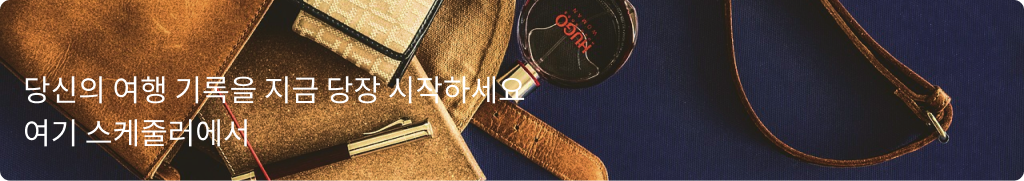
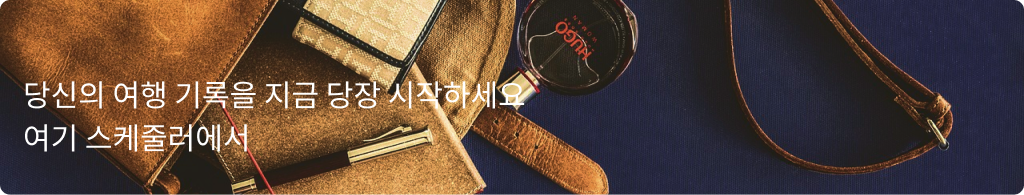
list.jsp 주소 1줄 줄임 해결, 글자들 margin 조정, pagenation margin top 조정

diff --git a/OnTheTrain/src/main/webapp/resources/css/accommodation/accommodationList.css b/OnTheTrain/src/main/webapp/resources/css/accommodation/accommodationList.css
@@ -14,7 +14,6 @@
 }
 
 #banner_space{
-    height: 180.59px;
     margin-top: 5%;
     left: 88px;;
     right: 88px;;
@@ -32,11 +31,12 @@
 }
 
 #pCount{
-	margin-top: 2%;
+	margin-top: 1%;
 	margin-bottom: 2%;
+	font-weight: 400px;
 }
 
-#searchAreab{
+/* #searchAreab{
     float:left;
     width: 600px;
     height: 55px;
@@ -84,22 +84,6 @@ button{
     margin-right: 30px;
     color: #00008B;
 }
-/* 
-#search1{
-    margin-left: 15.4px;
-}
-
-#search2{
-    
-}
-
-#search3{
-    
-}
-
-#search4{
-    
-} */
 
 #filter_box{
     float:left;
@@ -114,19 +98,18 @@ button{
 }
 
 #filter_box_text{
-    /* position: absolute; */
+    position: absolute;
     font-size: 14px;
     float: right; 
     margin-top: 4px;
     margin-right: 4px;
-}
+} */
 
 .gray_line{
     /* position: absolute; */
     border: 1px solid #DDDDDD;
-    margin-top: 150.41px;
-    margin-top: 18%;
-    margin-bottom: 2%;
+    margin-top: 5%;
+    margin-bottom: 1%;
 }
 
 .text_type2{
@@ -135,10 +118,10 @@ button{
     margin-top: 13px;
 }
 
-#accomodaion_count_text{
+/* #accomodaion_count_text{
     margin-top: 3px;
 }
-
+ */
 #list_img{
     float:left;
     width: 502px;
@@ -177,12 +160,13 @@ button{
     float: left;
     width: 148px;
     margin-left:0px;
-    font-weight: 700;
+    font-weight: 400;
     white-space: normal;
     display: -webkit-box;
     -webkit-line-clamp: 1;
     -webkit-box-orient: vertical;
     overflow: hidden;
+    margin-top: 10%;
 
 }
 
@@ -200,18 +184,21 @@ button{
     text-align: left;
 }
 
-.acccontent{
-    clear: both;
-    color: #717171;
-    white-space: normal;
+
+.acccontent {
+	clear: both;
+	color: #717171;
     display: -webkit-box;
-    -webkit-line-clamp: 2;
     -webkit-box-orient: vertical;
     overflow: hidden;
+    text-overflow: ellipsis;
+    -webkit-line-clamp: 1;
+    line-clamp: 1;
 }
 
+
 .pagination {
-    margin-top: 950px;
+    margin-top: 1000px;
     position: absolute;
     margin-left: 430px;
 }
